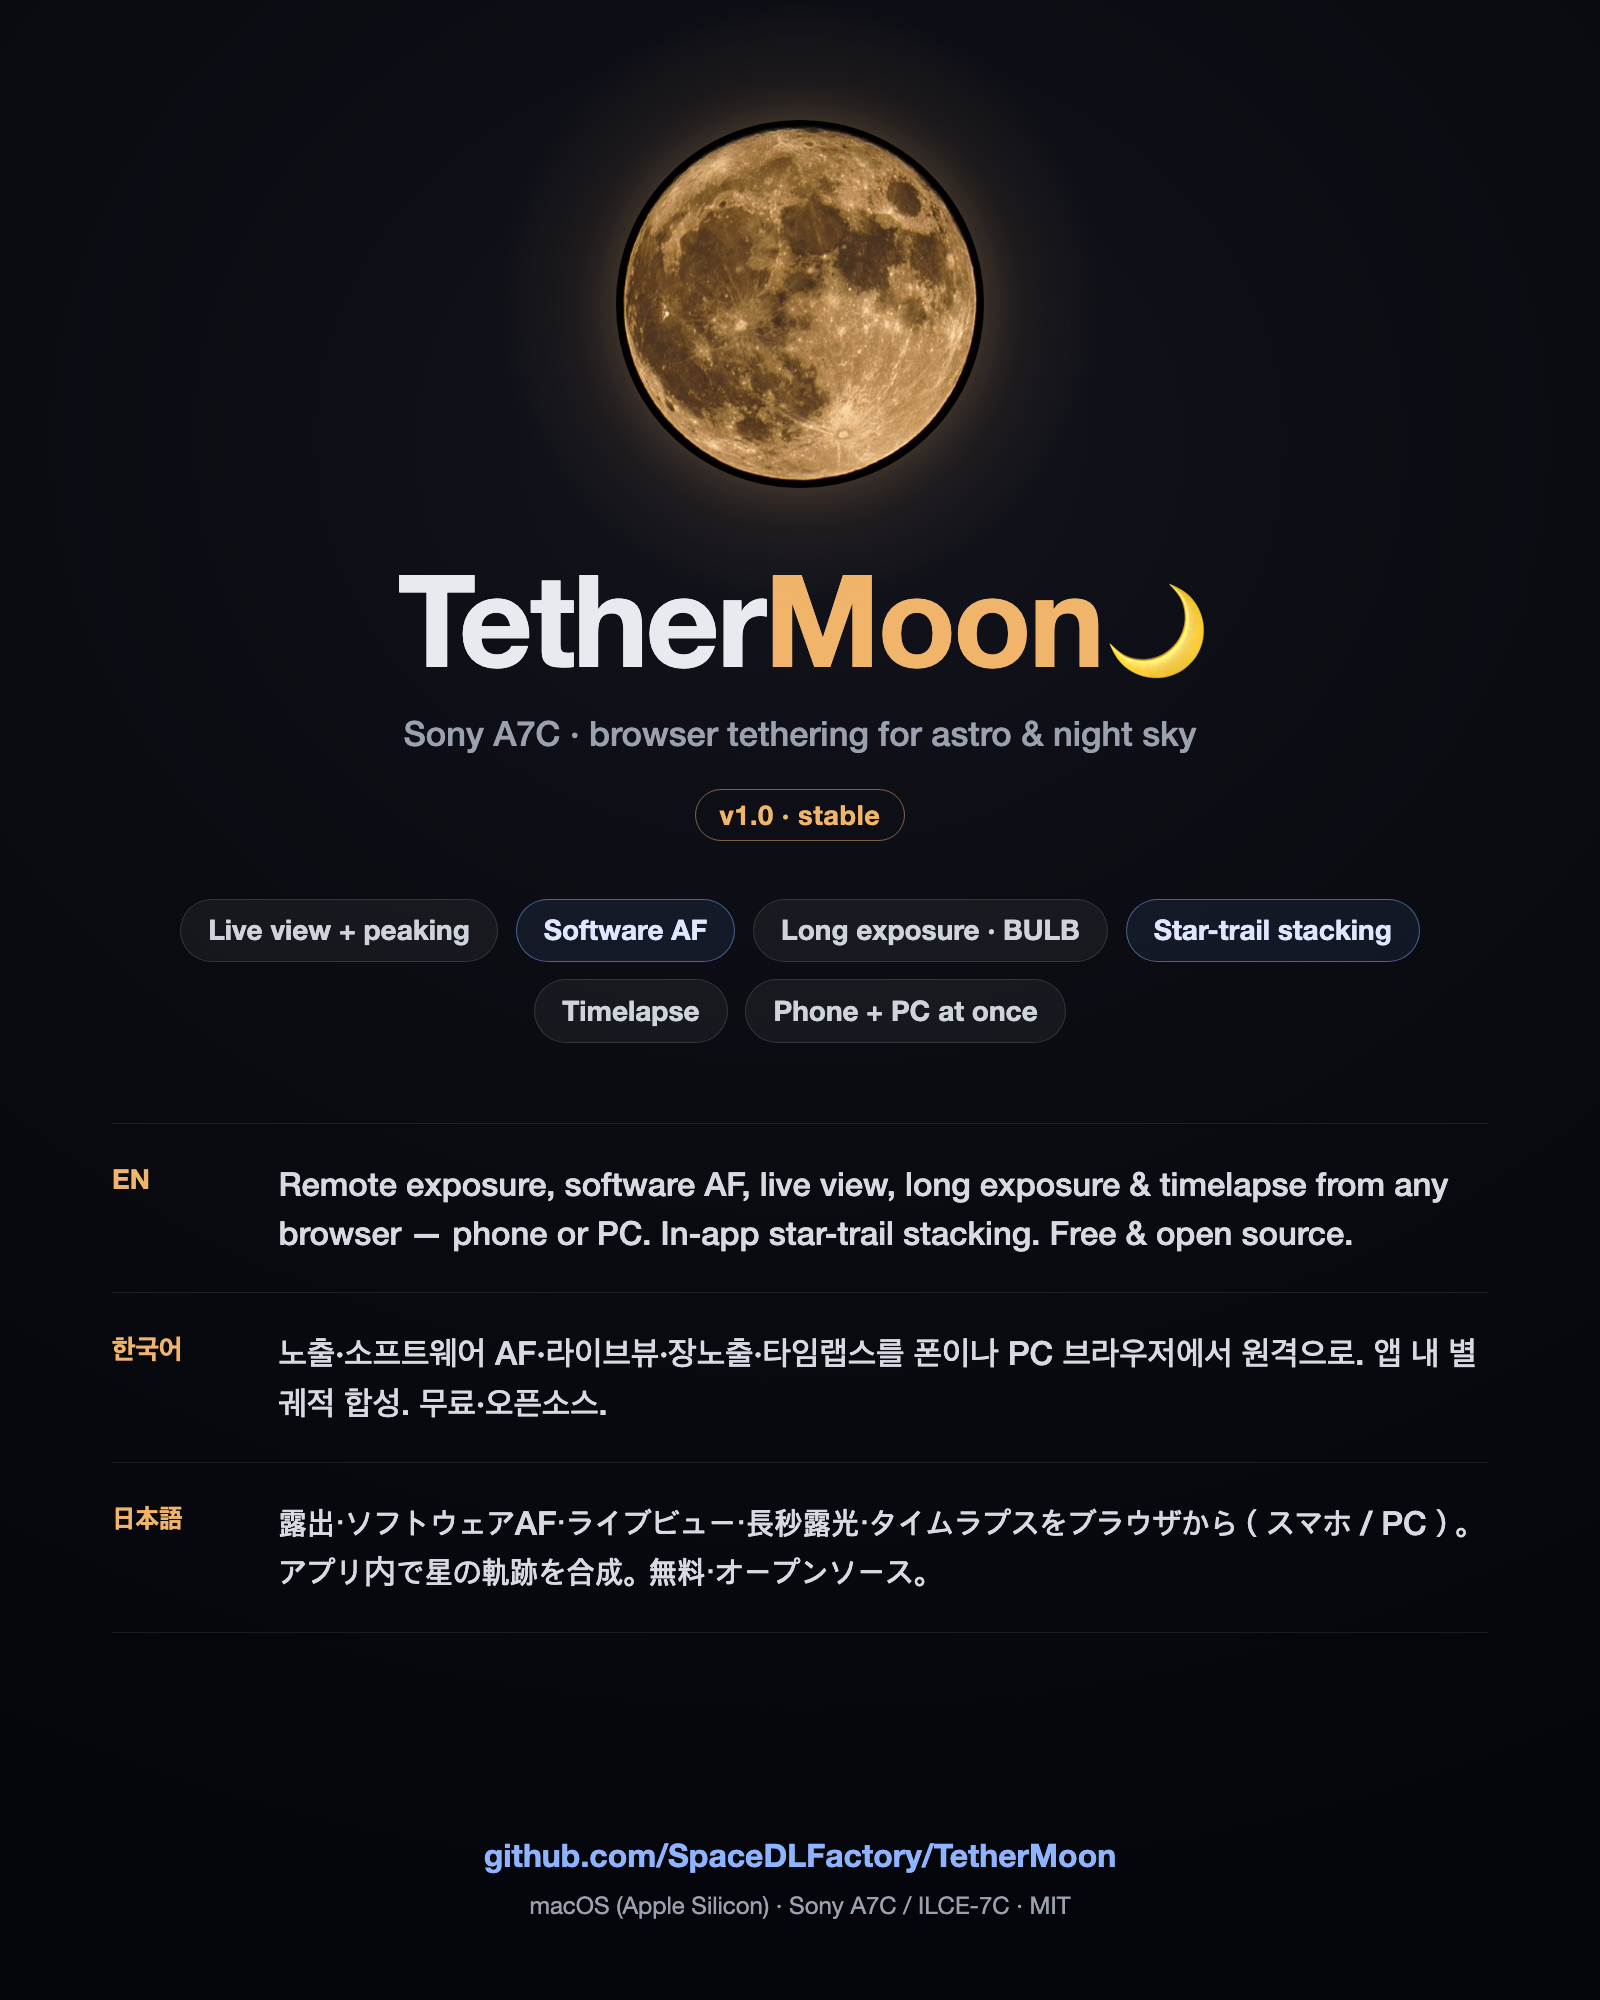
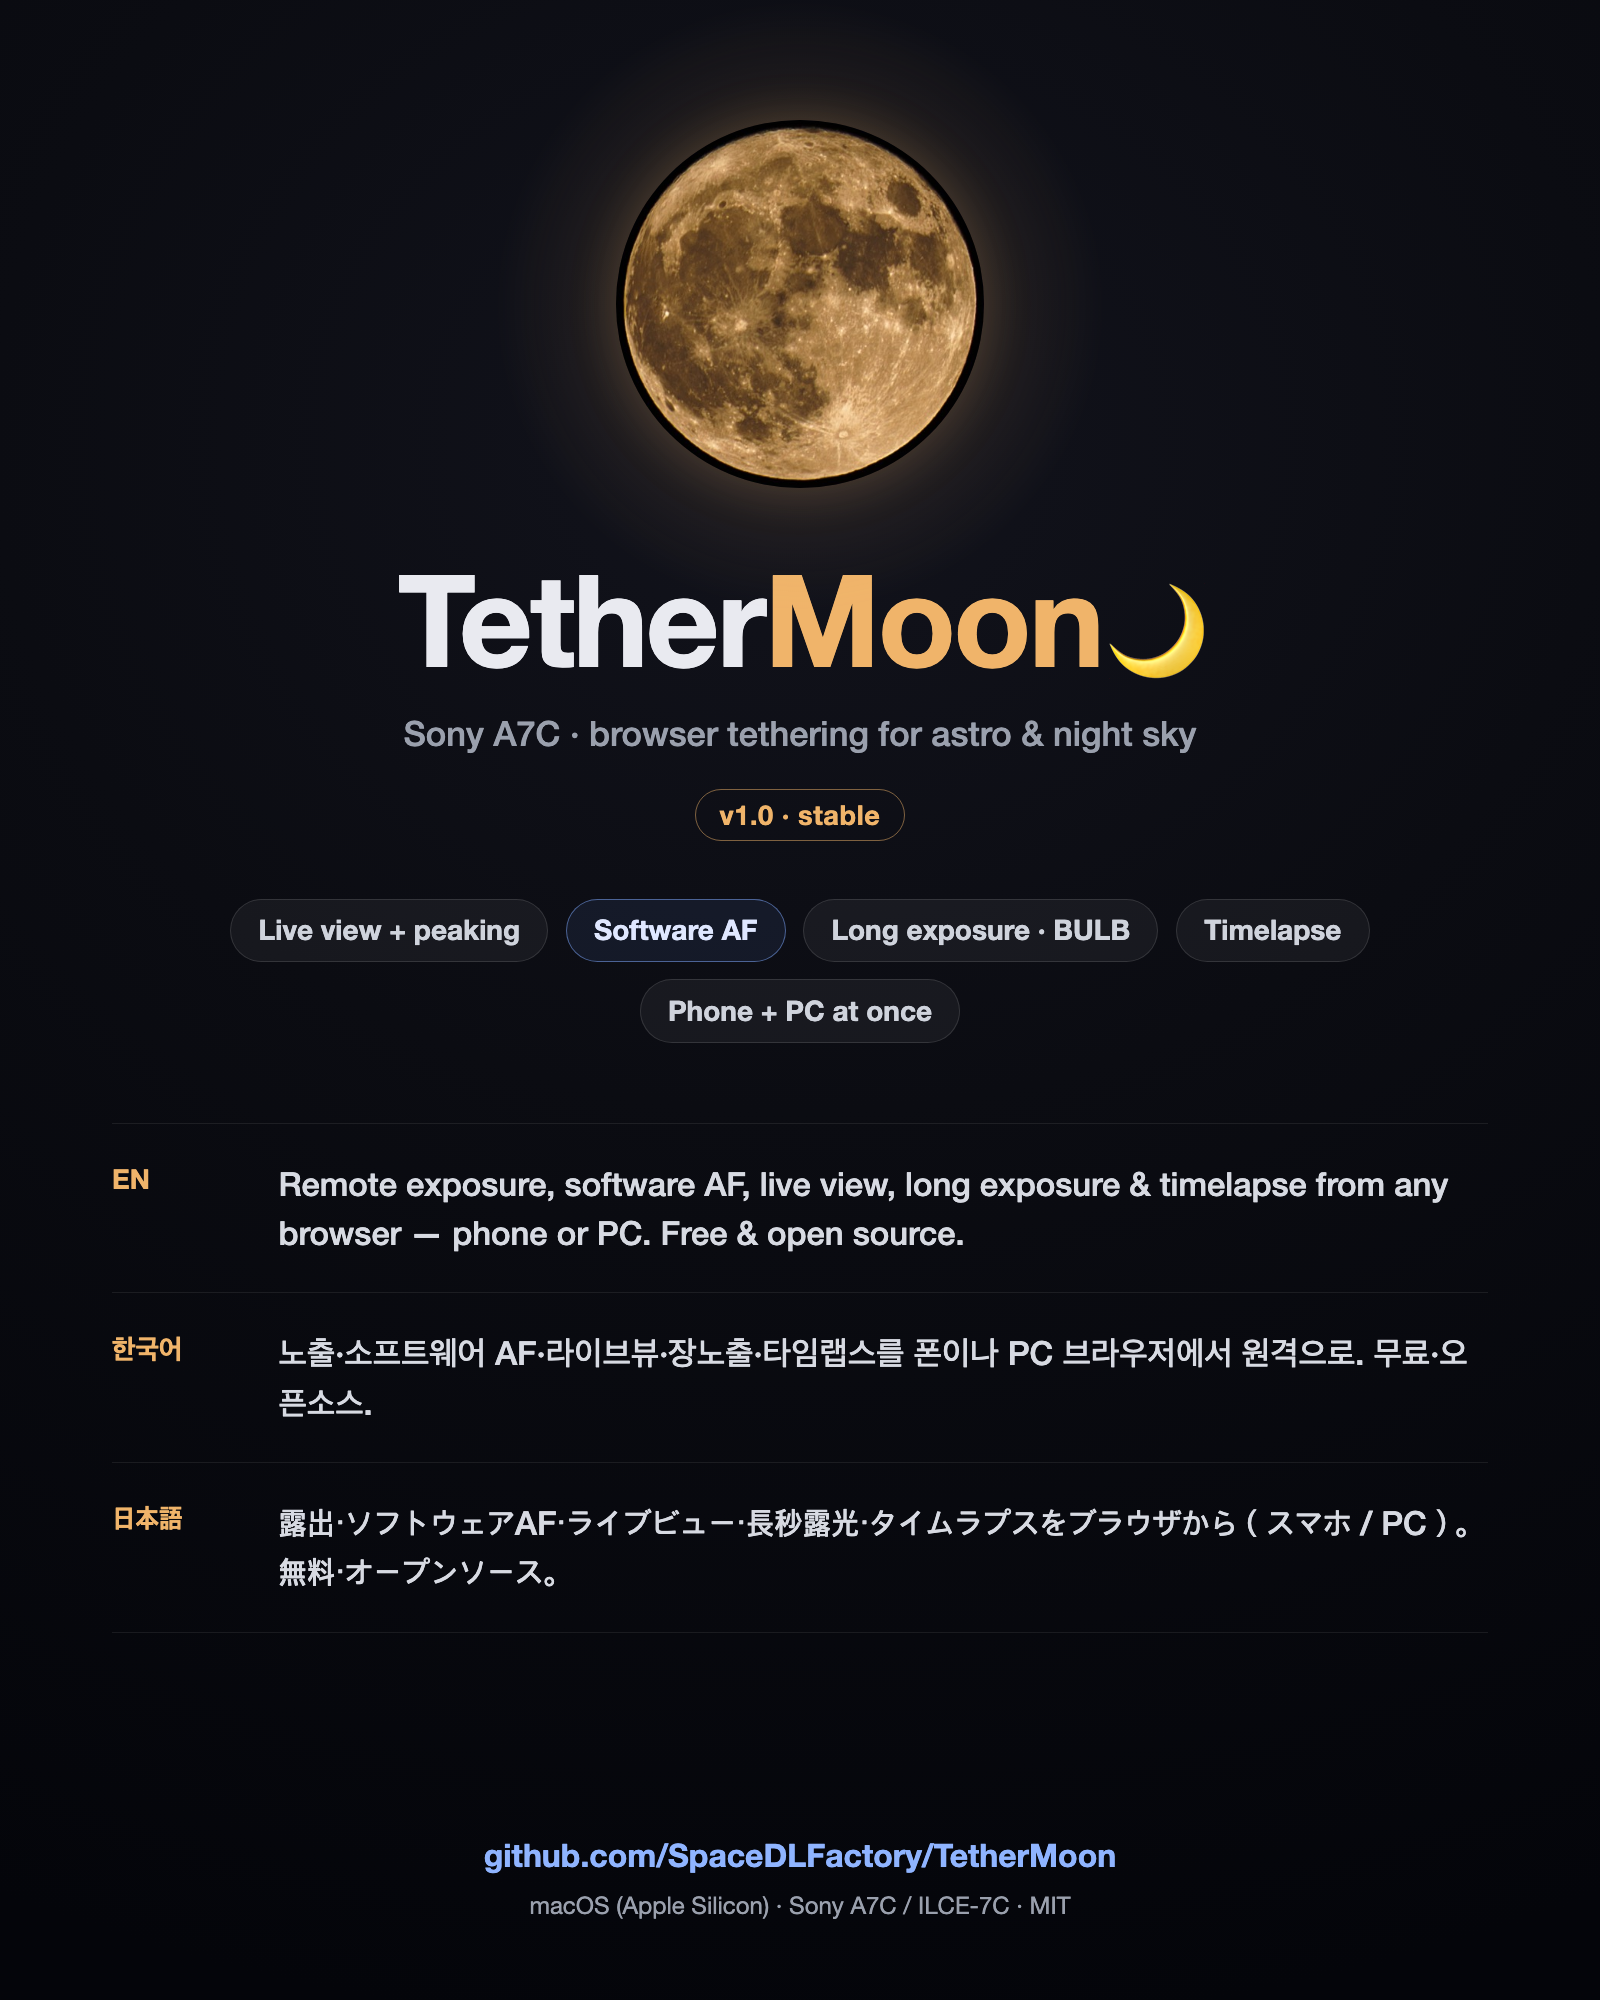
docs(gallery): drop star-trail stacking from cards (not shipped yet)
Software multi-exposure lighten works, but star-trail stacking isn't a
finished/verified feature to market, so remove the overclaim.

- remove "Star-trail stacking" chip (portrait + wide)
- remove the in-app star-trail sentence from EN/ko/ja taglines
- regenerate sns-card.png, sns-wide.png, og-image.png

Claude-Session: https://claude.ai/code/session_01VFmQJjfDS3M5wSiMwu4Rzr

diff --git a/gallery/cards/card-portrait.html b/gallery/cards/card-portrait.html
@@ -42,14 +42,13 @@
     <span class="chip">Live view + peaking</span>
     <span class="chip hot">Software AF</span>
     <span class="chip">Long exposure · BULB</span>
-    <span class="chip hot">Star-trail stacking</span>
     <span class="chip">Timelapse</span>
     <span class="chip">Phone + PC at once</span>
   </div>
   <div class="rows">
-    <div class="row"><div class="lab">EN</div><div class="txt">Remote exposure, software AF, live view, long exposure &amp; timelapse from any browser — phone or PC. In-app star-trail stacking. Free &amp; open source.</div></div>
-    <div class="row"><div class="lab">한국어</div><div class="txt">노출·소프트웨어 AF·라이브뷰·장노출·타임랩스를 폰이나 PC 브라우저에서 원격으로. 앱 내 별궤적 합성. 무료·오픈소스.</div></div>
-    <div class="row"><div class="lab">日本語</div><div class="txt">露出・ソフトウェアAF・ライブビュー・長秒露光・タイムラプスをブラウザから（スマホ / PC）。アプリ内で星の軌跡を合成。無料・オープンソース。</div></div>
+    <div class="row"><div class="lab">EN</div><div class="txt">Remote exposure, software AF, live view, long exposure &amp; timelapse from any browser — phone or PC. Free &amp; open source.</div></div>
+    <div class="row"><div class="lab">한국어</div><div class="txt">노출·소프트웨어 AF·라이브뷰·장노출·타임랩스를 폰이나 PC 브라우저에서 원격으로. 무료·오픈소스.</div></div>
+    <div class="row"><div class="lab">日本語</div><div class="txt">露出・ソフトウェアAF・ライブビュー・長秒露光・タイムラプスをブラウザから（スマホ / PC）。無料・オープンソース。</div></div>
   </div>
   <div class="foot">
     <div class="repo">github.com/SpaceDLFactory/TetherMoon</div>

diff --git a/gallery/cards/card-wide.html b/gallery/cards/card-wide.html
@@ -45,14 +45,13 @@
       <span class="chip">Live view + peaking</span>
       <span class="chip hot">Software AF</span>
       <span class="chip">Long exposure · BULB</span>
-      <span class="chip hot">Star-trail stacking</span>
       <span class="chip">Timelapse</span>
       <span class="chip">Phone + PC at once</span>
     </div>
     <div class="rows">
-      <div class="row"><div class="lab">EN</div><div class="txt">Remote exposure, software AF, live view, long exposure &amp; timelapse from any browser — phone or PC. In-app star-trail stacking.</div></div>
-      <div class="row"><div class="lab">한국어</div><div class="txt">노출·소프트웨어 AF·라이브뷰·장노출·타임랩스를 폰이나 PC 브라우저에서 원격으로. 앱 내 별궤적 합성.</div></div>
-      <div class="row"><div class="lab">日本語</div><div class="txt">露出・ソフトウェアAF・ライブビュー・長秒露光・タイムラプスをブラウザから。アプリ内で星の軌跡を合成。</div></div>
+      <div class="row"><div class="lab">EN</div><div class="txt">Remote exposure, software AF, live view, long exposure &amp; timelapse from any browser — phone or PC.</div></div>
+      <div class="row"><div class="lab">한국어</div><div class="txt">노출·소프트웨어 AF·라이브뷰·장노출·타임랩스를 폰이나 PC 브라우저에서 원격으로.</div></div>
+      <div class="row"><div class="lab">日本語</div><div class="txt">露出・ソフトウェアAF・ライブビュー・長秒露光・タイムラプスをブラウザから。</div></div>
     </div>
     <div class="foot">
       <div class="repo">github.com/SpaceDLFactory/TetherMoon</div>
